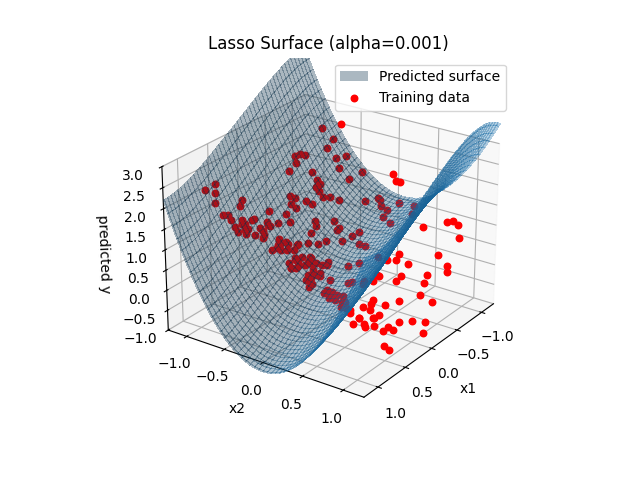
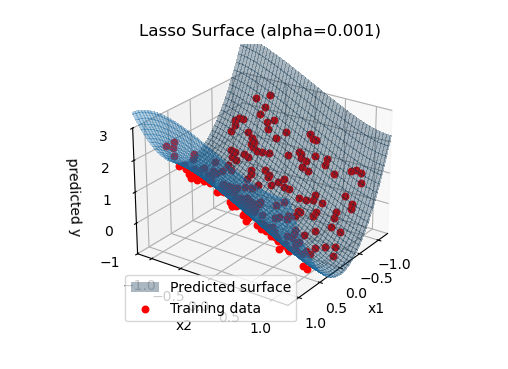
wk2 tucked away and wk3 graphs fixed

Changed region(s): [[0.1181, 0.0596, 0.8268, 0.9241], [0.5906, 0.8049, 0.6791, 0.8943]]

diff --git a/Week_3/assignment_wk3.py b/Week_3/assignment_wk3.py
@@ -32,9 +32,12 @@ plt.show()
 
 #contour map of y against x1 and x2 to assess if plane or curved surface
 plt.figure()
-plt.tricontourf(X[:,0], X[:,1], y, levels=12)
-plt.scatter(X[:,0], X[:,1], s=12, alpha=0.6)
-plt.xlabel("x1"); plt.ylabel("x2"); plt.title("y contours"); plt.colorbar(label="y")
+plt.tricontourf(X[:,0],X[:,1],y,levels=15)
+plt.scatter(X[:,0],X[:,1],s=12,alpha=0.6)
+plt.xlabel("x1"); 
+plt.ylabel("x2"); 
+plt.title("y contours"); 
+plt.colorbar(label="y")
 plt.show()
 
 #in addition to the two features in data file add extra polynomial features equal to all combinations of powers 
@@ -77,10 +80,11 @@ x1_min, x1_max = X[:,0].min()-exstension, X[:,0].max()+exstension #set the min a
 x2_min, x2_max = X[:,1].min()-exstension, X[:,1].max()+exstension #change the extension value to get the best view
 
 #create grid - use the range defined above to define the limits of the grid
-grid_x1 = np.linspace(x1_min, x1_max, 140)
-grid_x2 = np.linspace(x2_min, x2_max, 140)
+grid_x1 = np.linspace(x1_min, x1_max, 150)
+grid_x2 = np.linspace(x2_min, x2_max, 150)
 #for loop taken from the assignment brief
 Xtest = []
+#change these around to match surface to x1 and x2 axis
 for i in grid_x1:          
     for j in grid_x2:
         Xtest.append([i, j])
@@ -91,17 +95,19 @@ Xtest_poly = poly.transform(Xtest)
 
 #meshgrid creates 2d array of the x1 and x2 values for plotting
 X1grid, X2grid = np.meshgrid(grid_x1, grid_x2)
-gridLenX, gridLenY = len(grid_x1), len(grid_x2) #get lengths
 zmin, zmax = -1.0, 3.0  #match raw data y output range to lock z axis on plots
 
 for c, lasso_model in models:
-    Z = lasso_model.predict(Xtest_poly).reshape(gridLenY, gridLenX) #predict using the transformed test data and reshape to match the grid shape
-
+    Z = lasso_model.predict(Xtest_poly)#predict using the transformed test data and reshape to match the grid shape
+    gridx1_len, gridx2_len = len(grid_x1), len(grid_x2)
+    Z = Z.reshape(gridx2_len, gridx1_len).T
+    #Z = lasso_model.predict(Xtest_poly).reshape(X1grid.shape) #reshape to match the grid shape
     fig = plt.figure()
     ax = fig.add_subplot(111, projection='3d')
     #ax.set_proj_type('ortho')  # less perspective distortion
     #plot surface and training points
-    surf = ax.plot_surface(X1grid, X2grid, Z, alpha=0.35, linewidth=0, antialiased=False, label='Predicted surface')
+    surf = ax.plot_surface(X1grid, X2grid, Z, alpha=0.35, linewidth=0, label='Predicted surface')
+   
     ax.scatter(X[:,0], X[:,1], y, s=22, c='r', depthshade=False, label='Training data')
 
     #lock axes to the tight box to avoid the problem of massive autoscaling
@@ -109,9 +115,11 @@ for c, lasso_model in models:
     ax.set_ylim(grid_x2.min(), grid_x2.max())
     ax.set_zlim(zmin, zmax)
     
-    ax.view_init(elev=25, azim=35)
-    ax.set_xlabel("x1"); ax.set_ylabel("x2"); ax.set_zlabel("predicted y")
-    ax.set_title(f"Lasso Surface (alpha={c})")
+    ax.view_init(elev=25, azim=35) #change to suit the viewing angle
+    ax.set_xlabel("x1"); 
+    ax.set_ylabel("x2"); 
+    ax.set_zlabel("predicted y")
+    ax.set_title(f"Lasso surface (alpha={c})")
     ax.legend()
     plt.show()
 
@@ -149,8 +157,9 @@ Xtest = np.array(Xtest)
 #expand with polynomial transformer - already done for lasso so reuse
 
 for c, ridge_model in models_ridge:
-    ridge_Z = ridge_model.predict(Xtest_poly).reshape(gridLenY, gridLenX) #predict using the transformed test data and reshape to match the grid shape
-    
+    ridge_Z = ridge_model.predict(Xtest_poly) #predict using the transformed test data and reshape to match the grid shape
+    gridx1_len, gridx2_len = len(grid_x1), len(grid_x2)
+    ridge_Z = ridge_Z.reshape(gridx2_len, gridx1_len).T
     fig = plt.figure()
     ax = fig.add_subplot(111, projection='3d')
     
@@ -268,61 +277,76 @@ plt.show()
 feat_names = poly.get_feature_names_out(input_features=['x1','x2'])
 
 def model_to_formula(estimator, feat_names, *,
-                     decimals=4, zero_thresh=1e-8, sort_by='abs',
-                     latex=False):
+                     decimals=4,
+                     zero_thresh=1e-6,   # raise this for Ridge, e.g. 1e-3 or 5e-3
+                     sort_by='abs',      # 'abs' | 'value' | None
+                     top_k=None,         # e.g. 12 to show only the largest terms
+                     latex=False,
+                     line_break_every=6  # add newlines for readability (text mode)
+                     ):
     """
     Return a copy-pasteable string of the fitted model:
-      ŷ = intercept + Σ coef_i * term_i
-    - decimals: rounding for coefficients
-    - zero_thresh: treat very small coeffs as zero (cleaner for Lasso)
+      ŷ = intercept + Σ coef_i · term_i
+
+    - zero_thresh: drop tiny coefficients (very useful for Ridge)
+    - top_k: keep only the largest |coef| terms
     - sort_by: 'abs' (by |coef|), 'value' (by coef), or None (original order)
-    - latex: if True, return a LaTeX equation string
+    - latex: return a LaTeX equation string if True
     """
-    coefs = estimator.coef_.ravel()
+    # coef_ can be (n_features,) or (1, n_features); flatten safely
+    coefs = np.ravel(getattr(estimator, "coef_", np.array([])))
     intercept = float(getattr(estimator, "intercept_", 0.0))
 
-    # filter tiny coefficients
-    terms = [(name, c) for name, c in zip(feat_names, coefs) if abs(c) > zero_thresh]
+    # sanity check to avoid mismatches
+    assert len(coefs) == len(feat_names), \
+        f"coef length {len(coefs)} != feature names length {len(feat_names)}"
 
-    # sorting for readability
+    # filter tiny coefficients
+    terms = [(name, float(c)) for name, c in zip(feat_names, coefs)
+             if abs(c) > zero_thresh]
+
+    # sorting
     if sort_by == 'abs':
         terms.sort(key=lambda t: abs(t[1]), reverse=True)
     elif sort_by == 'value':
         terms.sort(key=lambda t: t[1], reverse=True)
 
-    # builders
+    # keep only the largest K if requested
+    if top_k is not None and len(terms) > top_k:
+        terms = terms[:top_k]
+
     def fmt(c):
-        s = f"{c:.{decimals}f}"
-        # strip "-0.0000" type artifacts
-        return "0" if abs(c) < zero_thresh else s
+        # avoid "-0.0000"
+        if abs(c) < zero_thresh: 
+            return "0"
+        return f"{c:.{decimals}f}"
 
     if not latex:
-        pieces = [f"{fmt(intercept)}"]
-        for name, c in terms:
+        pieces = [fmt(intercept)]
+        for idx, (name, c) in enumerate(terms, 1):
             sign = " + " if c >= 0 else " - "
             pieces.append(f"{sign}{abs(c):.{decimals}f}·{name}")
+            if line_break_every and idx % line_break_every == 0 and idx != len(terms):
+                pieces.append("\n    ")
         return "ŷ = " + "".join(pieces)
 
-    # LaTeX: turn x1^2 -> x_{1}^{2}, and x1 x2 -> x_{1} x_{2}
+    # LaTeX formatting
     def latex_term(name):
-        parts = [p.strip() for p in name.split(" ")]
+        # 'x1^3 x2^2' -> 'x_{1}^{3} x_{2}^{2}'
         out = []
-        for p in parts:
-            if "^" in p:
-                base, powr = p.split("^")
-                idx = base[1:]  # 'x1' -> '1'
-                out.append(rf"x_{{{idx}}}^{{{powr}}}")
+        for part in name.split():
+            if "^" in part:
+                base, pwr = part.split("^")
+                out.append(rf"x_{{{base[1:]}}}^{{{pwr}}}")
             else:
-                idx = p[1:]
-                out.append(rf"x_{{{idx}}}")
+                out.append(rf"x_{{{part[1:]}}}")
         return " ".join(out)
 
-    pieces = [f"{fmt(intercept)}"]
-    for name, c in terms:
+    pieces = [fmt(intercept)]
+    for (name, c) in terms:
         sign = " + " if c >= 0 else " - "
         pieces.append(f"{sign}{abs(c):.{decimals}f}\\,{latex_term(name)}")
-    return r"$\hat{y} = " + "".join(pieces) + r"$"
-   
+    return r"$\hat{y} = " + "".join(pieces) + r"$"   
 # Lasso models
 for c, mdl in models:
     print(f"\nLasso (alpha={c}):")
